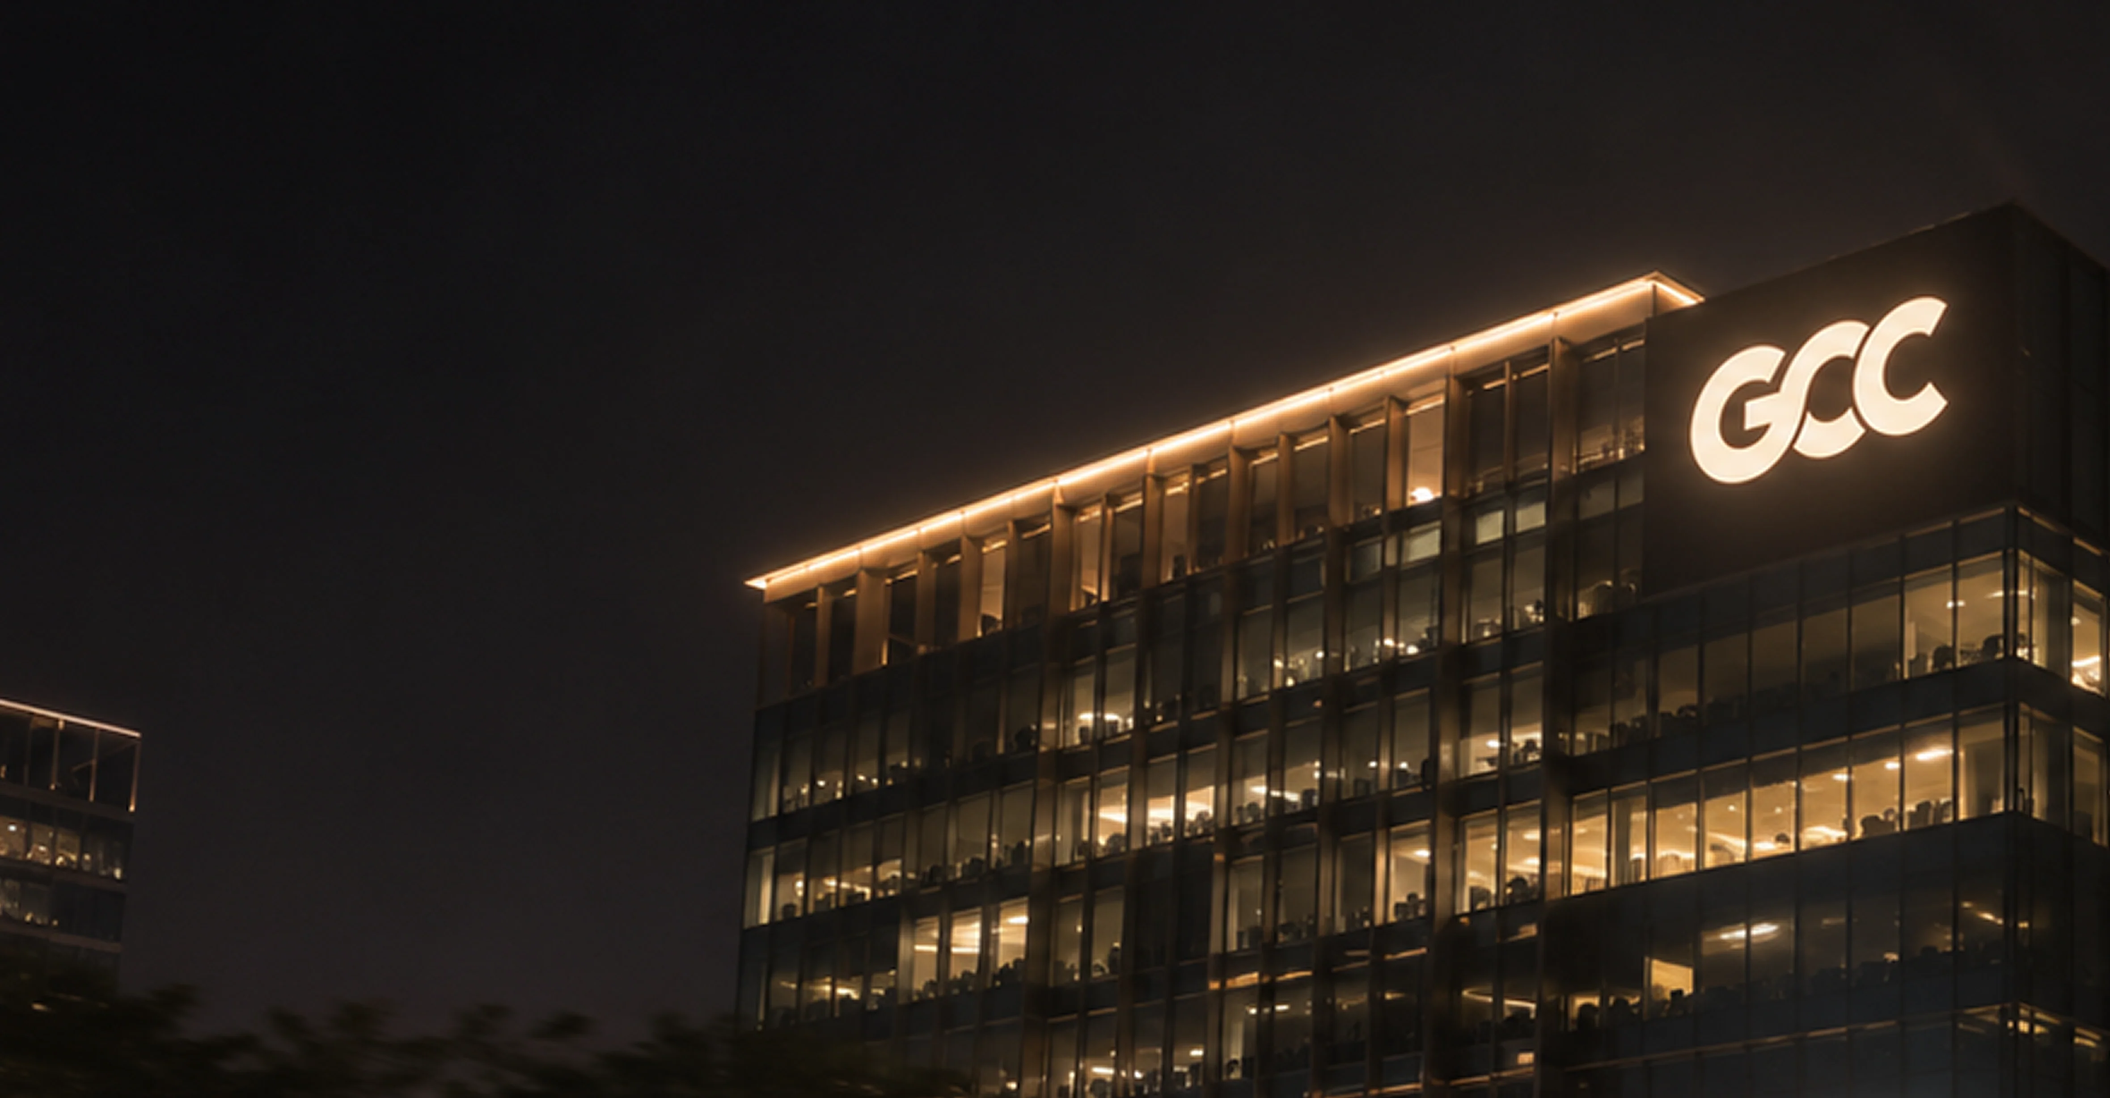
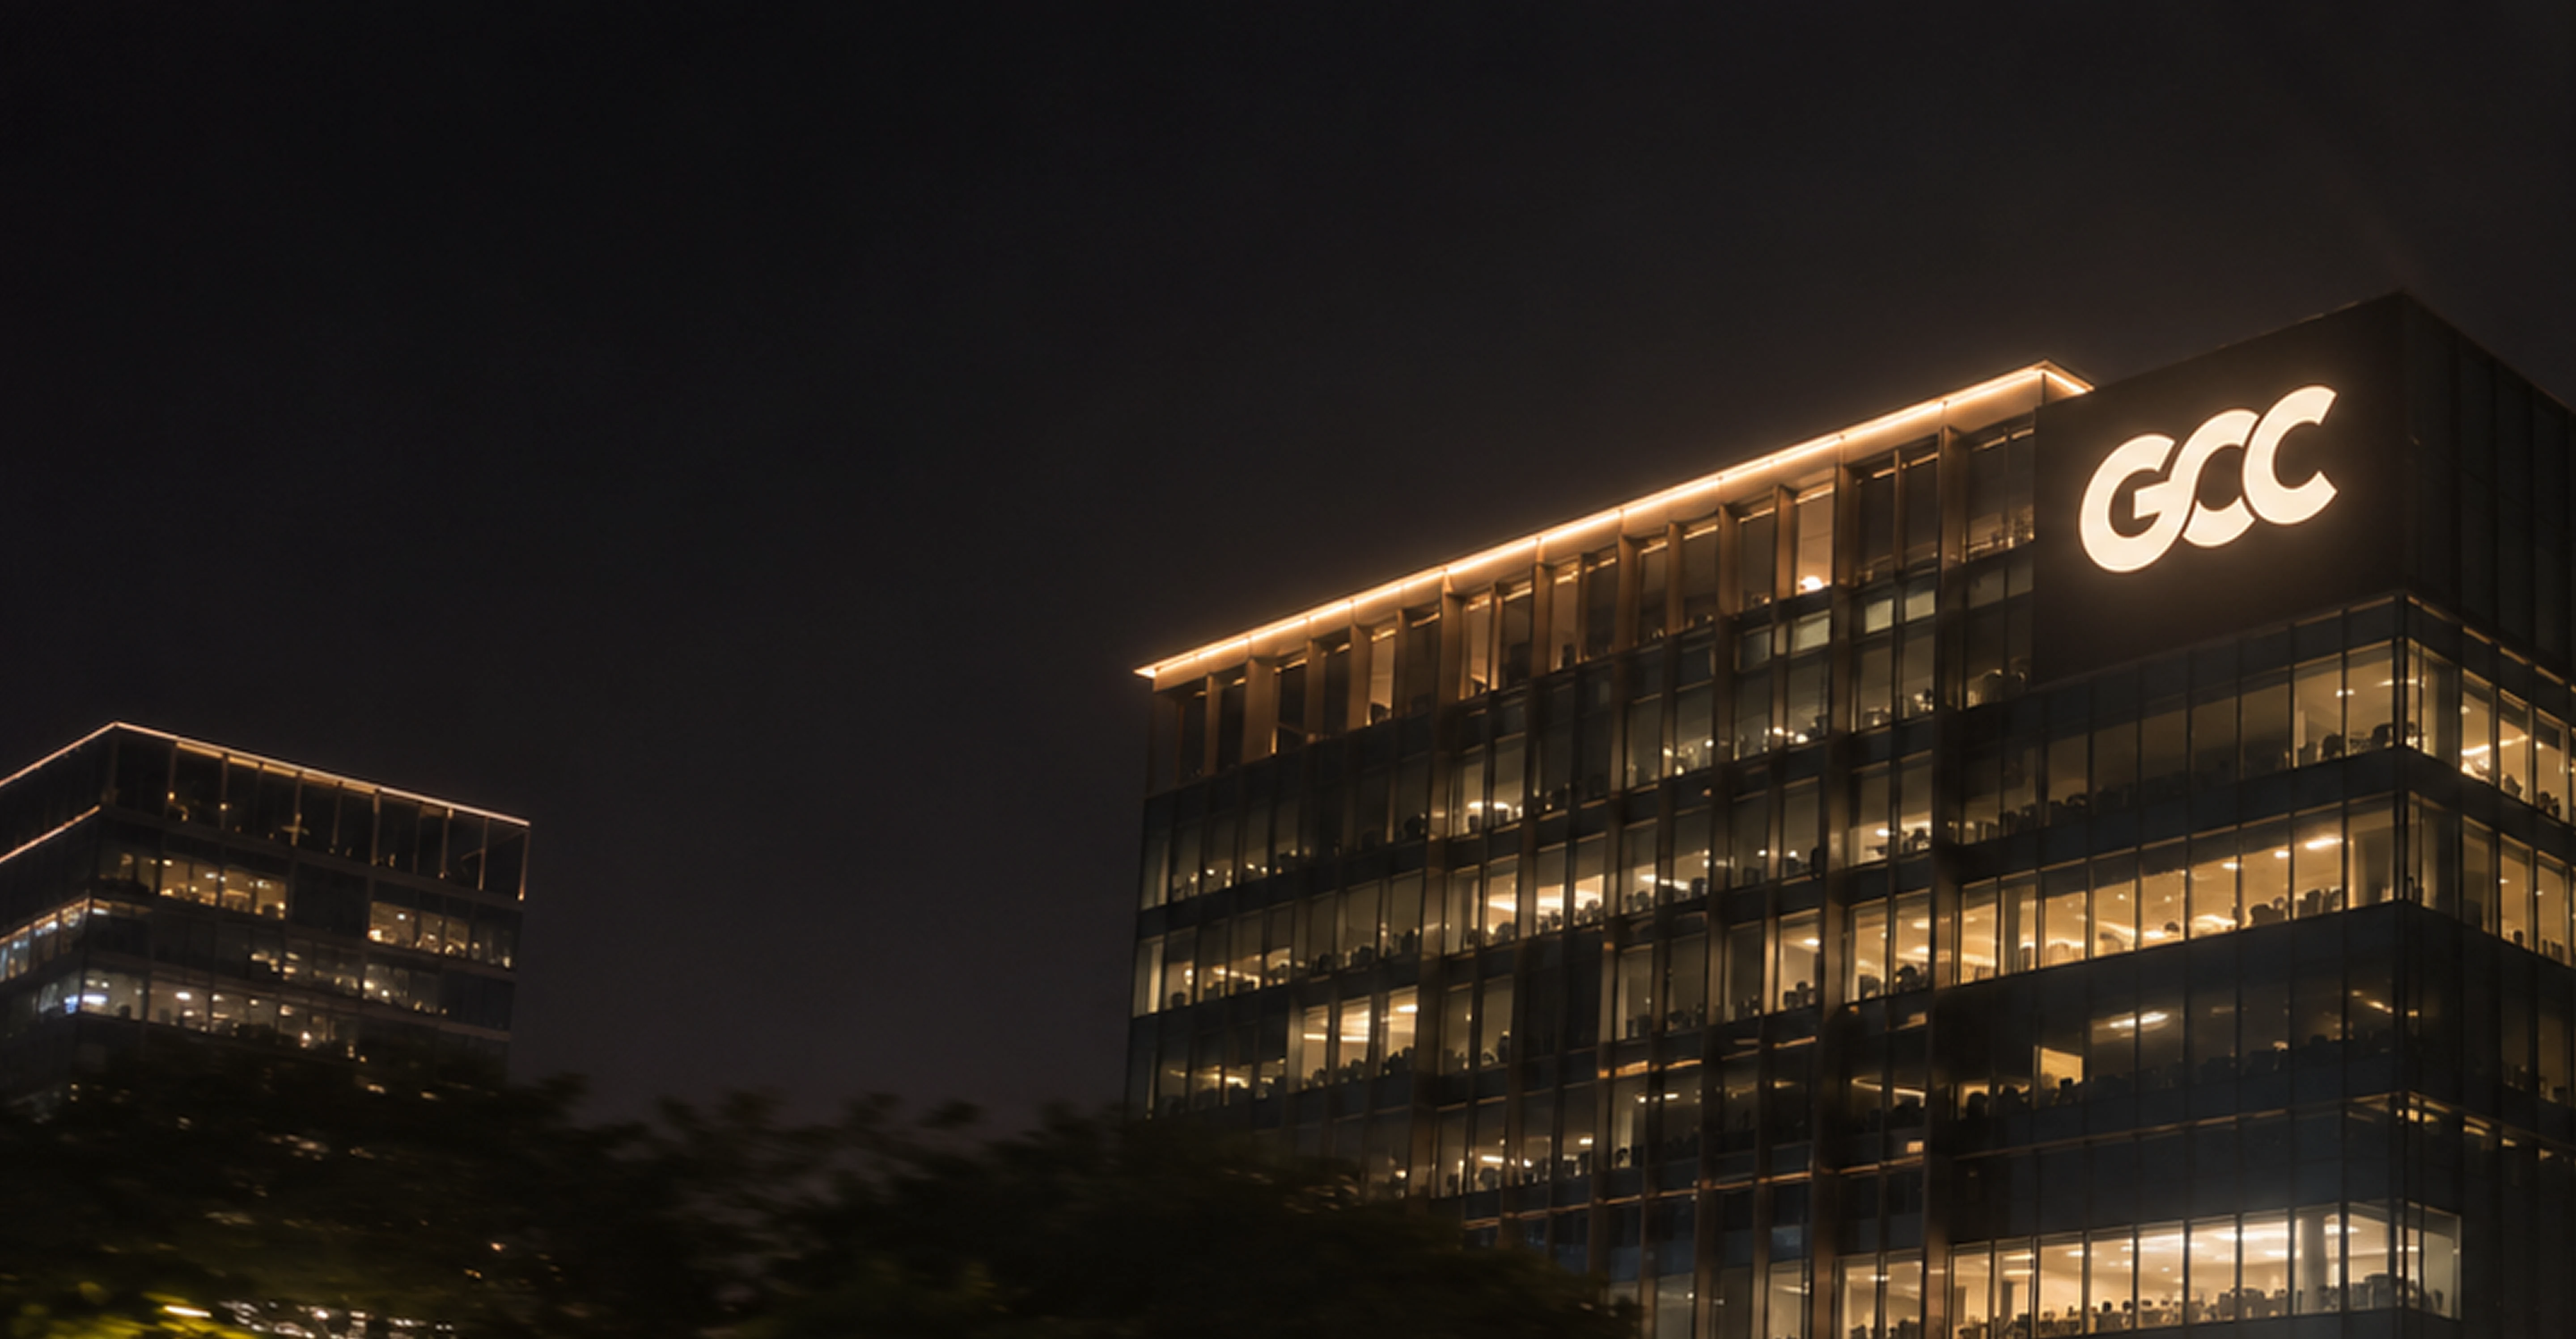
About page

diff --git a/src/pages/About/sections/PreviousExperiences.tsx b/src/pages/About/sections/PreviousExperiences.tsx
@@ -30,12 +30,6 @@ const START_DELAY = 150
 // Gentle slow-down at the end (a soft ease-out, not a hard snap)
 const EASE = 'cubic-bezier(0.25, 0.6, 0.3, 1)'
 
-/**
- * Space the grid must leave free on the screen: title (58) + gap (28) + top/bottom breathing room (64).
- * Lower it for bigger cards on short screens, raise it for smaller cards.
- */
-const RESERVED_PX = 150
-
 // Animated grid from this width up (same as Tailwind `sm`). Below it = simple scrollable boxes (phones only).
 const GRID_QUERY = '(min-width: 640px)'
 
@@ -169,7 +163,7 @@ export function PreviousExperiences() {
       ref={sectionRef}
       id="previous-experiences"
       data-node-id="214:7165"
-      className="flex w-full flex-col items-center justify-center overflow-x-clip bg-[#FFFCF2] px-6 py-16 sm:min-h-[100svh] sm:px-12 sm:py-8 lg:px-[96px]"
+      className="relative z-10 -mt-px flex w-full flex-col items-center justify-center overflow-x-clip bg-[#FFFCF2] px-6 py-16 sm:px-12 md:px-[96px] lg:px-[6rem] sm:min-h-[100svh] sm:py-8"
     >
       <h2
         ref={titleRef}
@@ -184,9 +178,8 @@ export function PreviousExperiences() {
 
       {/*
         Phones (< 640px): one horizontal row of boxes you scroll sideways, with snap.
-        640px and up: 3 x 2 grid, 20px gap, 12px corners (same as the original).
-        Full Figma size (1249px wide, 403px cards) on tall screens. On shorter screens the width is
-        reduced just enough for both rows to fit on one screen: width = 1.5 * (screen height - RESERVED) + 10
+        640px and up: 3 x 2 grid, 20px gap, 12px corners (matches Figma node 214:7163).
+        Full Figma size (1249px wide, 403px cards) with 96px (6rem) left and right padding.
       */}
       <div
         ref={gridRef}
@@ -196,7 +189,7 @@ export function PreviousExperiences() {
           isGrid
             ? {
                 perspective: '1400px',
-                maxWidth: `min(1249px, calc(1.5 * (100svh - ${RESERVED_PX}px) + 10px))`,
+                maxWidth: '1249px',
               }
             : undefined
         }

diff --git a/src/pages/About/sections/VisitOfficeSection.tsx b/src/pages/About/sections/VisitOfficeSection.tsx
@@ -44,21 +44,21 @@ export const VisitOfficeSection: React.FC = () => {
       data-node-id="214:7183"
       className="relative w-full overflow-hidden bg-[#252422] min-h-[580px] sm:min-h-[640px] lg:h-[749px] flex items-center"
     >
-      {/* Background Image (Figma Node 214:7219) — left-anchored night building */}
+      {/* Background Image (Figma Node 214:7219) */}
       <div className="absolute inset-0 pointer-events-none select-none">
         <img
           src={OFFICE_IMG}
           alt="GCC Office building at night"
-          className="w-full h-full object-cover object-left-top"
+          className="w-full h-full object-cover object-right"
         />
-        {/* Dark gradient overlay on left for text contrast */}
+        {/* Subtle mobile gradient overlay for text readability when viewport is narrow */}
         <div
-          className="absolute inset-0 bg-gradient-to-r from-black/85 via-black/45 to-transparent"
+          className="absolute inset-0 bg-gradient-to-r from-black/85 via-black/50 to-transparent lg:hidden"
           aria-hidden="true"
         />
       </div>
 
-      {/* Content Block (Figma Node 214:7217) — x=96, y=253.5, w=430.58, h=242 */}
+      {/* Content Block (Figma Node 214:7217) — x=96 (6rem left padding), y=253.5, w=430.58, h=242 */}
       <div
         ref={contentRef}
         data-node-id="214:7217"
@@ -68,7 +68,7 @@ export const VisitOfficeSection: React.FC = () => {
           alignItems: 'flex-start',
           gap: '40px',
         }}
-        className="relative z-10 w-full max-w-[430.58px] px-6 sm:px-12 lg:px-0 lg:absolute lg:left-[96px] lg:top-1/2 lg:-translate-y-1/2 lg:w-[430.58px]"
+        className="relative z-10 w-full max-w-[calc(430.58px+96px)] lg:max-w-[calc(430.58px+6rem)] pl-[96px] lg:pl-[6rem] lg:absolute lg:left-0 lg:top-1/2 lg:-translate-y-1/2"
       >
         {/* Heading (Figma Node 214:7215) — Bai Jamjuree Bold 48px in one line */}
         <h2

diff --git a/src/pages/About/sections/AboutStorySection.tsx b/src/pages/About/sections/AboutStorySection.tsx
@@ -119,9 +119,9 @@ export function AboutStorySection() {
   return (
     <section
       id="about-story"
-      className="bg-[#FFFCF2] px-4 py-16 md:px-12 lg:px-24 lg:pt-[88px] lg:pb-[88px]"
+      className="bg-[#FFFCF2] px-6 py-16 sm:px-12 md:px-[96px] lg:px-[6rem] lg:pt-[88px] lg:pb-[88px]"
     >
-      <div className="mx-auto flex w-full max-w-[1252px] flex-col gap-12 lg:gap-16">
+      <div className="mx-auto flex w-full max-w-[1249px] flex-col gap-12 lg:gap-16">
         <div className="flex flex-col gap-8 lg:flex-row lg:items-start lg:justify-between lg:gap-[120px]">
           {/* Eyebrow */}
           <div

diff --git a/src/pages/About/AboutPage.tsx b/src/pages/About/AboutPage.tsx
@@ -10,8 +10,11 @@ export function AboutPage() {
   return (
     <div className="flex flex-col min-h-screen bg-[#252422] text-[#FFFCF2]">
       <AboutHeroSection />
-      <AboutStorySection />
-      <PreviousExperiences />
+      {/* Cream wrapper for Story & Previous Experiences eliminates any subpixel seam */}
+      <div className="w-full bg-[#FFFCF2]">
+        <AboutStorySection />
+        <PreviousExperiences />
+      </div>
       <VisitOfficeSection />
       <ContactSection />
     </div>
